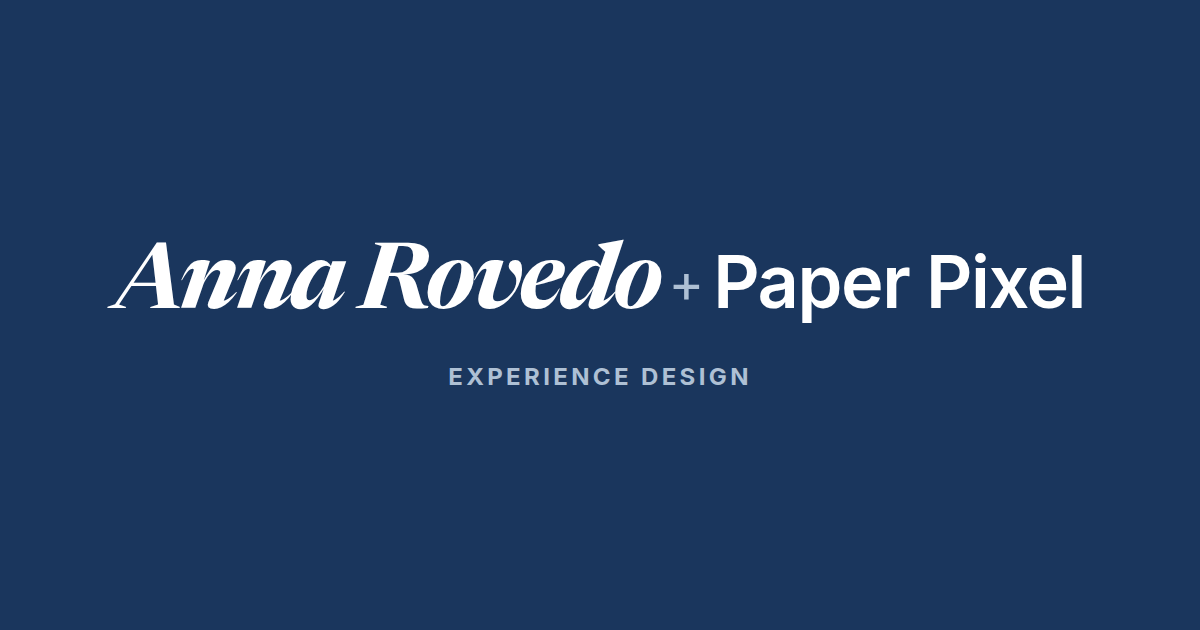
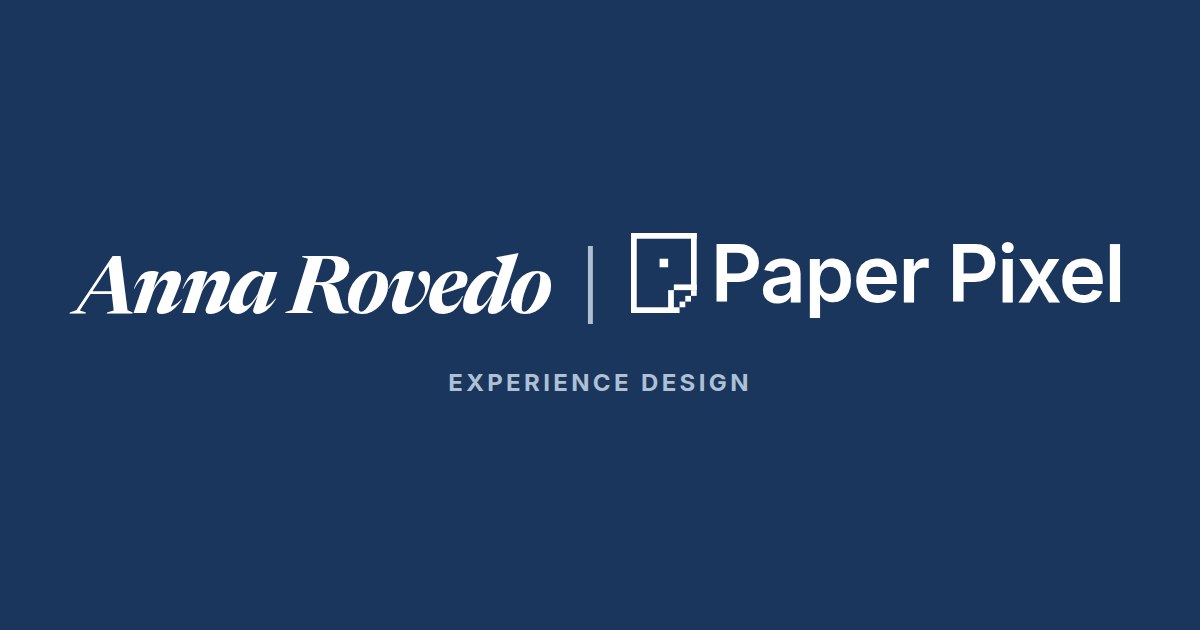
Share image: balance the two names, use the mark, bar divider
Anna: "balance the size of paper pixel and my name. use the logo" and
"don't use + use |". Both names now sit at 80px (cap heights of the
two faces measure within 1% at equal size), the folded-paper mark
stands in front of Paper Pixel at the wordmark's height exactly as
.brand-logo does in the header, and a thin bar divides them.

Claude-Session: https://claude.ai/code/session_01WKqLttd4b5yABJjEJjSP7v

Changed region(s): [[0.0617, 0.3619, 0.9558, 0.5127], [0.37, 0.573, 0.6167, 0.6333]]

diff --git a/site/app/layout.tsx b/site/app/layout.tsx
@@ -39,7 +39,7 @@ export const metadata: Metadata = {
         url: "/og.png",
         width: 1200,
         height: 630,
-        alt: "Anna Rovedo + Paper Pixel. Experience Design.",
+        alt: "Anna Rovedo | Paper Pixel. Experience Design.",
       },
     ],
   },
